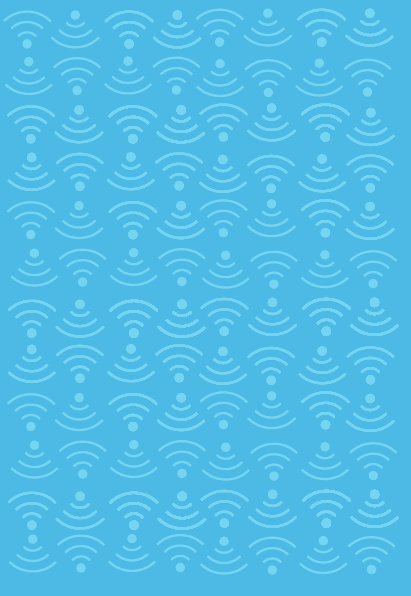
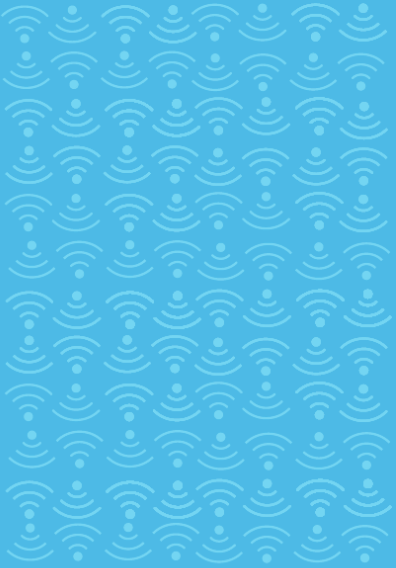
Agrego patterns opcionales

diff --git a/css/main.css b/css/main.css
@@ -16,11 +16,12 @@ footer {
 
 body {
 	font-family: 'Source Sans Pro', sans-serif;
-	background: url("../images/pattern4.png");
+	/*background-color: #73D5F2;*/
+	/*background: url("../images/pattern-2.jpg");*/
+	/*background: url("../images/pattern-3.jpg");*/
+	background: url("../images/pattern.png");
 	background-size: repeat;
-	background-position: center center;
-	background-color: #73D5F2;
-
+	background-position: center center;	
 }
 a {
 	text-decoration: none;
